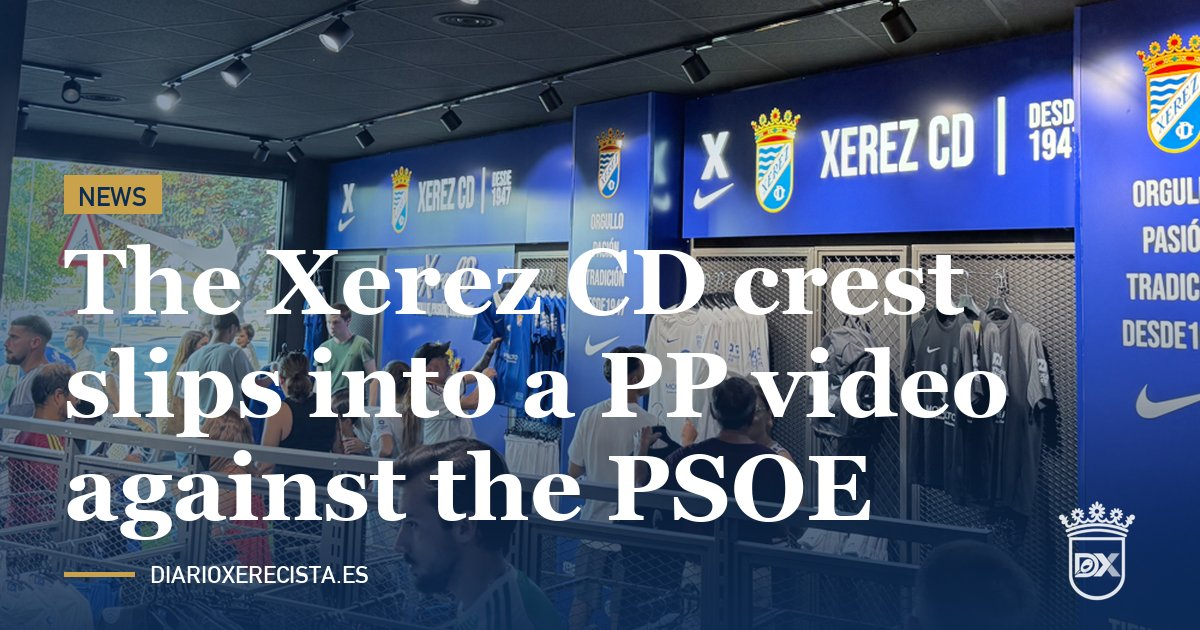
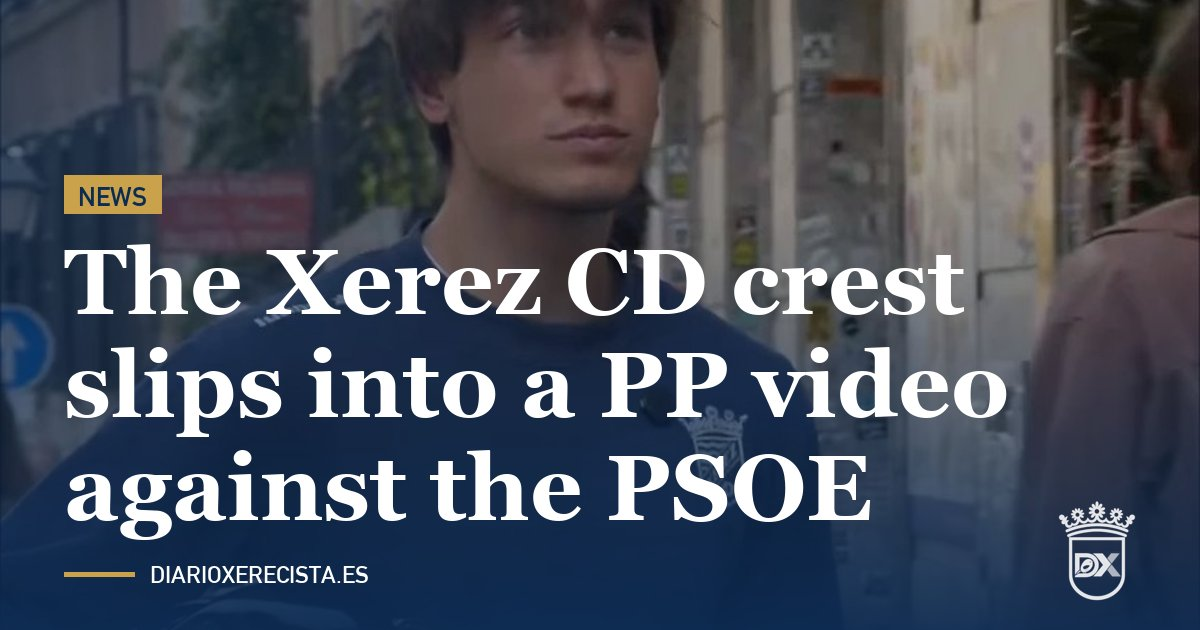
art99: foto del vídeo del PP con la sudadera del Xerez (ES/EN e imagen para redes)

diff --git a/noticias/articulos/2026-10/el-escudo-del-xerez-cd-se-cuela-en-un-video-del-pp-contra-el-psoe/index.html b/noticias/articulos/2026-10/el-escudo-del-xerez-cd-se-cuela-en-un-video-del-pp-contra-el-psoe/index.html
@@ -38,7 +38,7 @@
   "headline": "El escudo del Xerez CD se cuela en un vídeo del PP contra el PSOE",
   "description": "El Partido Popular ha publicado en su cuenta oficial de X un vídeo dirigido a Pedro Sánchez en el que el protagonista viste una sudadera con el escudo del Xerez CD.",
   "image": [
-    "https://www.diarioxerecista.es/fotos/publicadas/xerez-cd-tienda-oficial-apertura.jpg"
+    "https://www.diarioxerecista.es/fotos/publicadas/video-pp-sudadera-xerez.jpg"
   ],
   "datePublished": "2026-10-23",
   "dateModified": "2026-10-23",
@@ -78,8 +78,8 @@
     <h1>El escudo del Xerez CD se cuela en un vídeo del PP contra el PSOE</h1>
 
     <div class="n-photo">
-      <img src="../../../../fotos/publicadas/xerez-cd-tienda-oficial-apertura.jpg" alt="Tienda oficial del Xerez CD" loading="lazy">
-      <span class="n-credit">Foto: Diario Xerecista</span>
+      <img src="../../../../fotos/publicadas/video-pp-sudadera-xerez.jpg" alt="Protagonista del vídeo del PP con una sudadera con el escudo del Xerez CD" loading="lazy">
+      <span class="n-credit">Imagen: vídeo del Partido Popular en X</span>
     </div>
 
     <p class="lead">El Partido Popular ha publicado en su cuenta oficial de X un vídeo dirigido a Pedro Sánchez en el que el protagonista viste una sudadera con el escudo del Xerez CD.</p>

diff --git a/en/noticias/articulos/2026-10/the-xerez-cd-crest-slips-into-a-pp-video-against-the-psoe/index.html b/en/noticias/articulos/2026-10/the-xerez-cd-crest-slips-into-a-pp-video-against-the-psoe/index.html
@@ -38,7 +38,7 @@
   "headline": "The Xerez CD crest slips into a PP video against the PSOE",
   "description": "The Partido Popular has published a video aimed at Pedro Sánchez on its official X account in which the main character wears a sweatshirt bearing the Xerez CD crest.",
   "image": [
-    "https://www.diarioxerecista.es/fotos/publicadas/xerez-cd-tienda-oficial-apertura.jpg"
+    "https://www.diarioxerecista.es/fotos/publicadas/video-pp-sudadera-xerez.jpg"
   ],
   "datePublished": "2026-10-23",
   "dateModified": "2026-10-23",
@@ -78,8 +78,8 @@
     <h1>The Xerez CD crest slips into a PP video against the PSOE</h1>
 
     <div class="n-photo">
-      <img src="../../../../../fotos/publicadas/xerez-cd-tienda-oficial-apertura.jpg" alt="Xerez CD official shop" loading="lazy">
-      <span class="n-credit">Photo: Diario Xerecista</span>
+      <img src="../../../../../fotos/publicadas/video-pp-sudadera-xerez.jpg" alt="The star of the PP video wearing a sweatshirt with the Xerez CD crest" loading="lazy">
+      <span class="n-credit">Image: Partido Popular video on X</span>
     </div>
 
     <p class="lead">The Partido Popular has published a video aimed at Pedro Sánchez on its official X account in which the main character wears a sweatshirt bearing the Xerez CD crest.</p>
